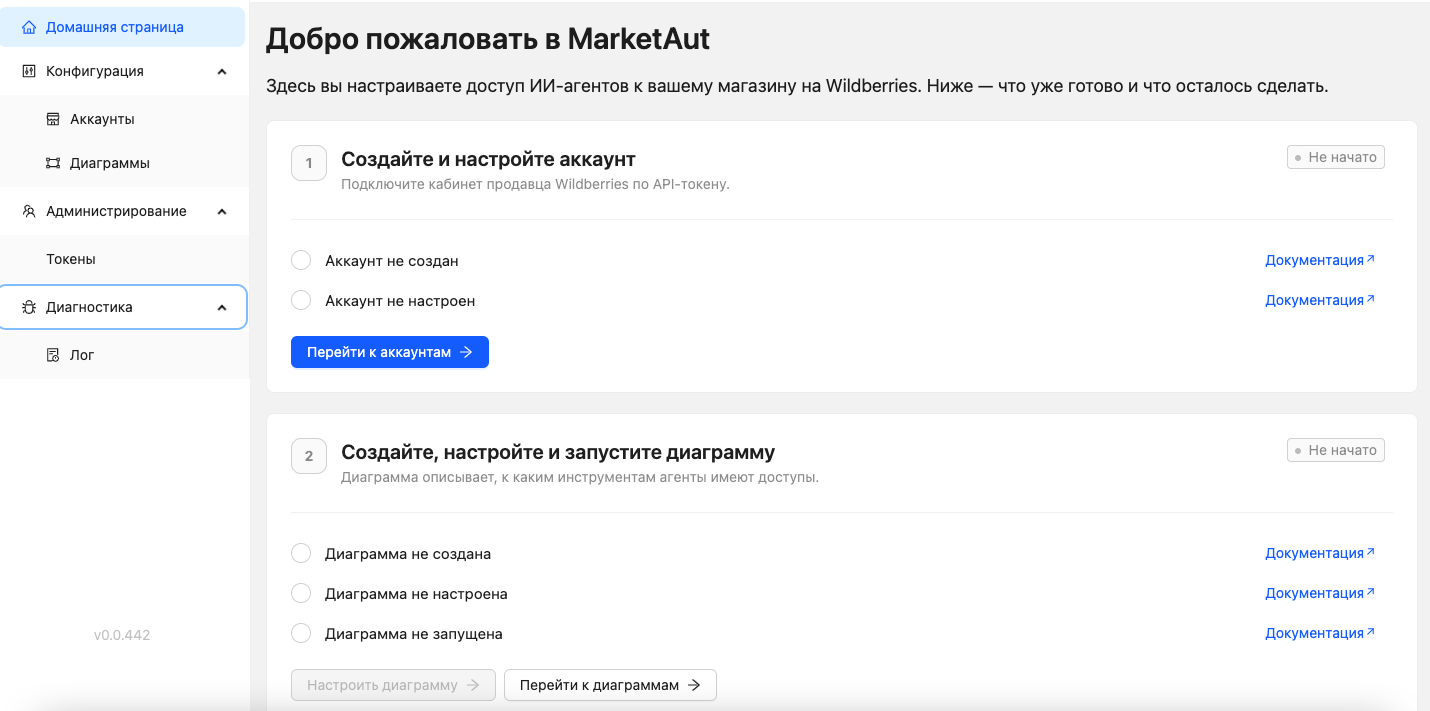
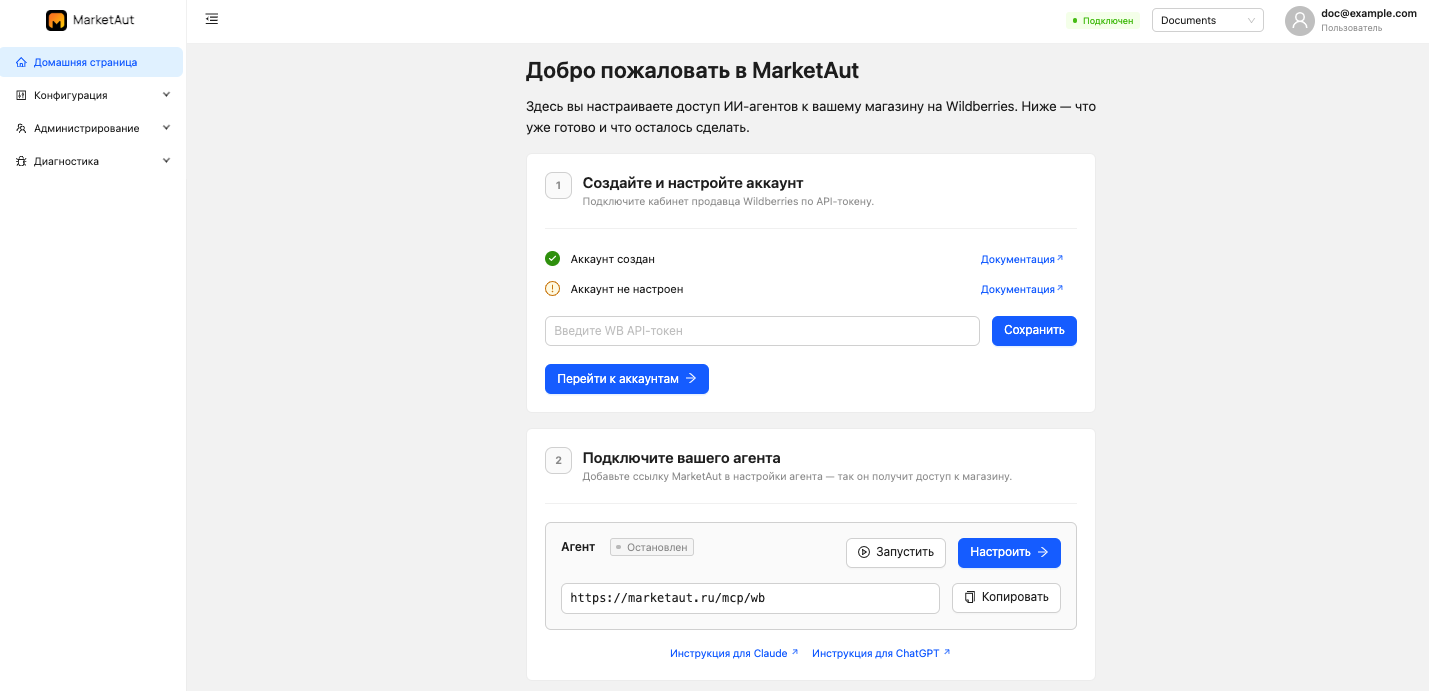
fix gpt home doc. and img

diff --git a/docs/3-start/02-home.md b/docs/3-start/02-home.md
@@ -2,81 +2,48 @@
 
 После регистрации и входа в MarketAut пользователь автоматически попадает на домашнюю страницу. 
 
+При регистрации платформа уже создаёт:
+
+- один аккаунт Wildberries;
+- одну диаграмму для подключения ИИ-агента.
+
+Создавать их вручную для первоначальной настройки не нужно. Остаётся добавить API-токен Wildberries, запустить диаграмму и скопировать ссылку для подключения ИИ-агента.
+
 ![](img/home/main-page.png)
 
-Домашняя страница помогает пройти первоначальную настройку системы и отображает текущий прогресс подключения.
+## Добавление  API-токена Wildberries
 
-На ней отображаются основные этапы настройки, которые необходимо выполнить перед подключением ИИ-агентов к магазину.
+В блоке **Создайте и настройте аккаунт** уже отображается автоматически созданный аккаунт.
 
-После успешного завершения каждого этапа соответствующие пункты будут отмечены зелёными галочками, а статус этапа изменится на **Готово**.
+Вставьте API-токен Wildberries в поле **Введите WB API-токен** и нажмите **Сохранить**.
 
-> Домашняя страница предназначена для первоначальной настройки системы.
-> 
-> Для начала работы обычно достаточно создать один аккаунт и одну диаграмму.
-> 
-> Если в дальнейшем потребуется создать дополнительные аккаунты или диаграммы, это можно сделать в разделах [Аккаунты](../4-platform/01-accounts.md) и [Диаграммы](../4-platform/03-diagrams.md).
+![](img/home/add-wb-token.png)
 
-## Статусы этапов
+После сохранения токена аккаунт будет настроен, а соответствующие пункты отметятся зелёными галочками.
 
-На домашней странице отображается текущий статус каждого этапа настройки:
+Отдельно создавать аккаунт в разделе **Аккаунты** для первоначального подключения не требуется.
 
-- **Не начато** — настройка ещё не началась;
-- **В процессе** — часть необходимых действий уже выполнена;
-- **Готово** — этап успешно завершён.
+## Запуск диаграммы
 
-После выполнения всех необходимых действий этап автоматически получает статус **Готово** и отмечается зелёными галочками.
-## Подключение аккаунта 
+Диаграмма также создаётся автоматически при регистрации. Настраивать или создавать её вручную для первоначального подключения не нужно.
 
-Первым этапом необходимо подключить и настроить аккаунт Wildberries.
+После сохранения API-токена в блоке **Подключите вашего агента** нажмите **Запустить**.
 
-Если аккаунт ещё не создан или не настроен, домашняя страница отобразит соответствующие уведомления.
+![](img/home/start-diagram.png)
 
-![](img/home/account-not-ready.png)
+После запуска статус диаграммы изменится, а ссылка для подключения ИИ-агента станет доступна.
 
-Для перехода к настройке используйте кнопку **Перейти к аккаунтам** или откройте раздел **Аккаунты** в меню платформы.
+## Ссылка MCP
 
-После успешного создания и настройки аккаунта все проверки будут отмечены зелёными галочками.
+В этом же блоке отображается ссылка для подключения агента к MarketAut.
 
-![](img/home/account-ready.png)
+Нажмите **Копировать**, чтобы сохранить её.
 
-Для первоначальной настройки достаточно создать один аккаунт.
+![](img/home/copy-agent-link.png)
 
-Если необходимо подключить несколько кабинетов Wildberries, дополнительные аккаунты можно создать в разделе [Аккаунты](../4-platform/01-accounts.md).
-## Настройка диаграммы
-
-После настройки аккаунта станет доступен следующий этап — создание диаграммы.
-
-Диаграмма определяет, к каким инструментам и данным смогут обращаться подключённые ИИ-агенты.
-
-Для перехода к настройке используйте кнопку **Перейти к диаграммам** или откройте раздел **Диаграммы** в меню платформы.
-
-После создания диаграммы первый пункт будет отмечен как выполненный.
-
-![](img/home/diagram-created.png)
-
-После настройки диаграммы будет отмечен следующий этап.
-
-![](img/home/diagram-configured.png)
-
-После запуска диаграммы все проверки будут успешно пройдены, а статус этапа изменится на **Готово**.
-
-![](img/home/diagram-started.png)
-
-Для первоначальной настройки достаточно создать одну диаграмму.
-
-Если потребуется создать дополнительные сценарии работы, отдельные наборы инструментов или несколько ИИ-агентов, дополнительные диаграммы можно создать в разделе [Диаграммы](../4-platform/03-diagrams.md).
-## Получение MCP-адреса
-
-После успешного создания аккаунта и запуска диаграммы становится доступен MCP-адрес для подключения ИИ-агентов.
-
-![](img/home/mcp-link.png)
-
-Нажмите кнопку **Скопировать**, чтобы получить MCP-адрес.
-
-Этот адрес потребуется при подключении Claude, ChatGPT, Gemini и других ИИ-агентов к платформе MarketAut.
-
+Эта ссылка потребуется при подключении Claude, ChatGPT или другого поддерживаемого ИИ-агента.
 ## Что дальше? 
 
-После получения MCP-адреса перейдите в раздел [Работа с ИИ](../5-ai/01-claude.md) и выберите используемого ИИ-агента.
+После копирования ссылки перейдите в раздел [Работа с ИИ](../5-ai/00-intro.md) и выберите нужный сервис.
 
-Следуйте инструкции для выбранного сервиса, чтобы завершить подключение к MarketAut.
+Для первоначальной настройки достаточно одного автоматически созданного аккаунта и одной диаграммы. При необходимости дополнительные аккаунты и диаграммы можно создать позже в соответствующих разделах платформы.

diff --git a/docs/5-ai/02-chat-gpt.md b/docs/5-ai/02-chat-gpt.md
@@ -11,17 +11,15 @@
 - аккаунт Wildberries успешно создан и настроен;
 - диаграмма создана, настроена и запущена;
 - получен MCP-адрес на домашней странице MarketAut.
-# Подключение
+# Подключение 
 
-1. В левом нижнем углу окна ChatGPT нажмите на значок профиля и выберите **Настройки**;
+1. В правом верхнем углу окна ChatGPT выберите раздел **Плагины**;
 
-![](img/gpt/profile_open.png)
-2. Перейдите в раздел **Приложения;**
-3. Нажмите **Создать приложение**.
+![](img/gpt/plugin.png)
+2. Нажмите  **Добавить плагин**;
 
-![](img/gpt/app_create.png)
-Откроется окно создания нового приложения ChatGPT.
-4. Заполните следующие значения:
+![](img/gpt/add-plugin.png)
+3. Заполните поля:
 
 - **Название** — любое название на ваш выбор, например `MarketAut`;
 - **Подключение** — URL-адрес MCP-сервера;
@@ -31,58 +29,46 @@
 
 Например: `https://marketaut.ru/mcp/myMCP`
 
-![](img/gpt/connector_dialog.png)
+![](img/gpt/connected-dialog.png)
 
 Заполните поле подключения вашим MCP-адресом и убедитесь, что в качестве способа аутентификации выбран **OAuth**.
 
 После заполнения всех полей установите флажок подтверждения и нажмите **Создать**.
 
-![](img/gpt/confirm_creation.png)
-5. Далее нажмите **Войти через  MarketAut**;
-6. Откроется страница авторизации MarketAut;
-7. В окне предоставления доступа нажмите **Разрешить доступ**.
+![](img/gpt/confirm-creation.png)
+4. Далее нажмите **Войти через  MarketAut**;
+5. Откроется страница авторизации MarketAut;
+6. В окне предоставления доступа нажмите **Разрешить доступ**.
 
 ![](img/gpt/oauth_consent.png)
 
-После завершения подключения приложение появится в разделе **Приложения**.
+После успешного подключения плагин **MarketAut** появится в разделе **Плагины → Личные**.
 
-![](img/gpt/app_connected.png)
+![](img/gpt/plugin-list.png)
+Откройте плагин **MarketAut**.
 
-Откройте приложение, чтобы просмотреть информацию о подключении и список доступных инструментов MarketAut.
+В правом верхнем углу нажмите **Настройки**.
+
+![](img/gpt/plugin-settings-button.png)
+В открывшемся окне будет отображаться информация о подключении и список доступных инструментов MarketAut.
 
 ![](img/gpt/tools_available.png)
 
-Если список инструментов отображается, приложение успешно подключено к MarketAut и готово к использованию.
-# Работа с ChatGPT
+Если список инструментов отображается, подключение успешно завершено.
+## Использование ChatGPT
 
-## Проверка подключения
+Откройте новый диалог ChatGPT.
 
-Для проверки подключения откройте новый диалог ChatGPT.
+Нажмите кнопку **+** рядом с полем ввода сообщения и выберите **MarketAut**.
 
-Нажмите кнопку **+** рядом с полем ввода сообщения и выберите:
+![](img/gpt/chat-plugin-list.png)
 
-**Больше → Режим агента → MarketAut**
+Если **MarketAut** отображается в списке, плагин успешно подключён и готов к использованию.
 
-![](img/gpt/add_marketaut.png)
-
-После выбора агента MarketAut он будет подключён к текущему диалогу.
-
-Для проверки отправьте запрос, например:
+Отправьте любой запрос, например:
 
 > Привет! Выведи список моих карточек WB.
 
-Если подключение настроено корректно, ChatGPT сможет обратиться к инструментам MarketAut и получить данные из вашего магазина Wildberries.
-
 ![](img/gpt/ask.png)
 
-## Обновление инструментов
-
-После изменения списка инструментов в диаграмме MarketAut необходимо обновить приложение в ChatGPT.
-
-Для обновления приложения откройте:
-
-**Настройки → Приложения → MarketAut** и нажмите **Обновить**.
-
-![](img/gpt/tools_update.png)
-
-После обновления ChatGPT получит актуальный список инструментов из вашей диаграммы MarketAut.
+Если подключение настроено корректно, ChatGPT сможет обратиться к инструментам MarketAut и получить данные из вашего магазина Wildberries.

diff --git a/docs/3-start/03-api-token.md b/docs/3-start/03-api-token.md
@@ -1,0 +1,36 @@
+# Получение API-токена Wildberries
+
+Для подключения аккаунта к MarketAut необходимо получить API-токен Wildberries.
+
+Войдите в личный кабинет продавца Wildberries и откройте раздел **Доступ к API**.
+
+
+```md
+![Раздел «Доступ к API»](img/api-token/01-api-menu.png)
+```
+
+Нажмите **Создать токен**, укажите название токена и выберите необходимые категории доступа.
+
+```md
+![Создание API-токена](img/api-token/02-create-token.png)
+```
+
+После создания Wildberries отобразит API-токен. Скопируйте его и сохраните.
+
+!!! warning "Важно"
+
+    API-токен отображается только один раз. Если он был утерян, потребуется создать новый.
+
+```md
+![Полученный API-токен](img/api-token/03-copy-token.png)
+```
+
+После получения токена вернитесь на **Домашнюю страницу** MarketAut.
+
+Вставьте API-токен в поле **Введите WB API-токен** и нажмите **Сохранить**.
+
+```md
+![Добавление API-токена](img/home/add-token.png)
+```
+
+После сохранения токена аккаунт будет настроен, и вы сможете запустить диаграмму и получить ссылку для подключения ИИ-агента.

diff --git a/docs/4-platform/04-diagrams-edit.md b/docs/4-platform/04-diagrams-edit.md
@@ -30,8 +30,6 @@
 3. В группе выберите тип узла и нажмите **Добавить**.
 ![](img/diagrams/choose-block.png)
 
-
-
 ## Редактирование узла
 
 Для редактирования узла:
@@ -90,6 +88,7 @@
 Для создания связи нажмите на выход одного узла и, удерживая кнопку мыши, перетащите соединение на вход другого узла.
 
 Для удаления связи:
+
 1. Выберите связь, которую необходимо удалить, щелкнув на ней мышью;
 2. Нажмите на появившийся значок крестика;
 

diff --git a/docs/2-quick-start/quick_start.md b/docs/2-quick-start/quick_start.md
@@ -7,11 +7,7 @@
 
 После регистрации в MarketAut автоматически создаётся первая диаграмма. Она будет доступна сразу после входа в систему и может использоваться как основа для настройки ваших интеграций.
 
-## Подключение Claude к магазину Wildberries
-
-
-
-
+## Подключение ChatGPT к магазину Wildberries
 
 ### Получение API-токена Wildberries
 

diff --git a/docs/4-platform/02-account-types.md b/docs/4-platform/02-account-types.md
@@ -6,7 +6,6 @@
 
 1. Wildberries — API-токен [Wildberries](https://wildberries.ru)
 
-
 ## Wildberries
 
 Позволяет работать с данными магазина через API [Wildberries](https://wildberries.ru).
